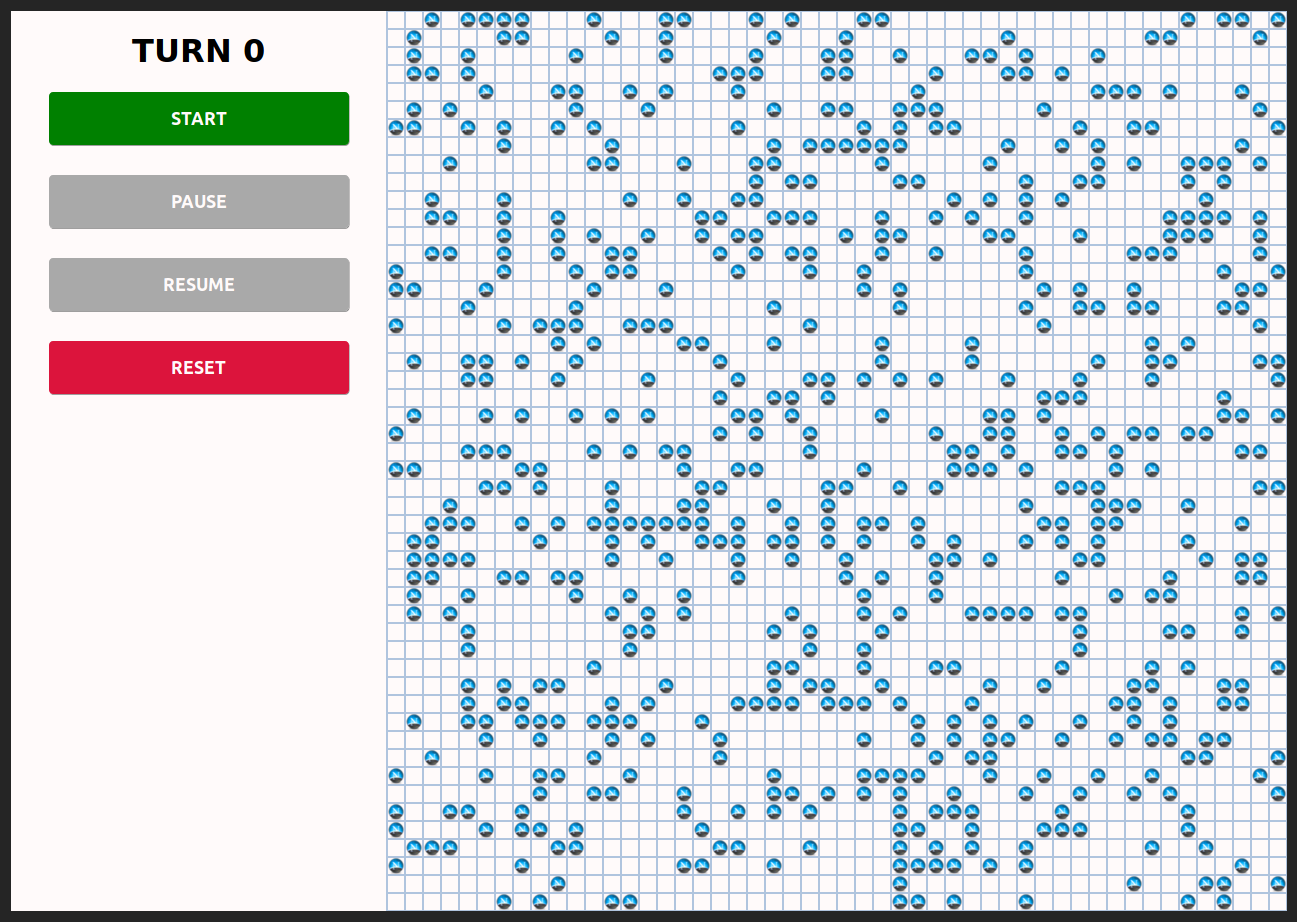
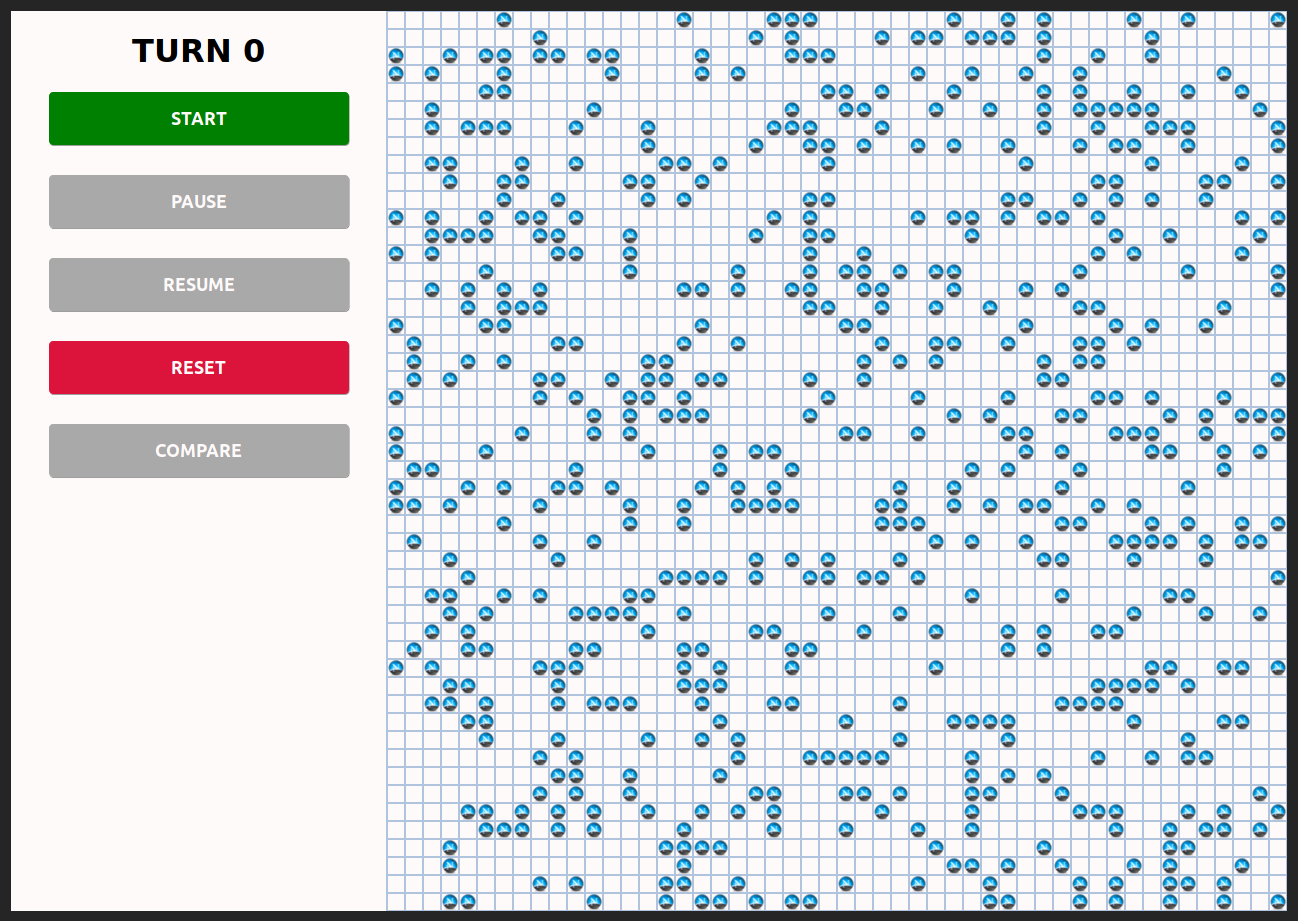
Update README markdown and main.png

Changed region(s): [[0.0308, 0.0, 1.0, 1.0], [0.1542, 0.1216, 0.185, 0.152], [0.1234, 0.3952, 0.1542, 0.4256]]

diff --git a/README.md b/README.md
@@ -42,13 +42,13 @@ npm start
 
 ## Then click START in the menu bar to watch the game evolve before your very eyes!
 
-_Added Feature: COMPARE_
+* _Added Feature: COMPARE_
 
 The __COMPARE__ button toggles between the previous and current grid state. This was
 made to easily compare between the two states to see if the rules are kept and consistent
 at any point of the game.
 
-_Notes on button behavior:_
+* _Notes on button behavior:_
 
 Once the __START__ button is clicked it will remain locked until the
 __RESET__ button is clicked. Initially, the __PAUSE__, __RESUME__, and __COMPARE__ button
@@ -57,6 +57,6 @@ are able to toggle between __PAUSE__ and __RESUME__. The __COMPARE__ button is o
 when the game is paused. The __RESET__ button can be clicked at any point of the game to stop
 and restore the initial game state.
 
-_Main Algorithm for the Game Rules:_
+* _Main Algorithm for the Game Rules:_
 
 [Repl.it link](https://repl.it/@jamesscript7/brainForGameLoop)
